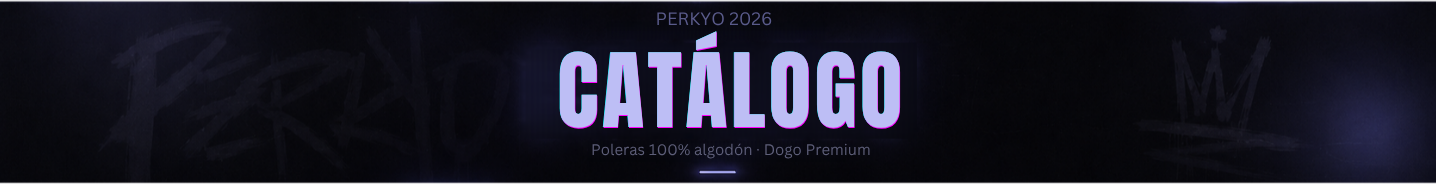
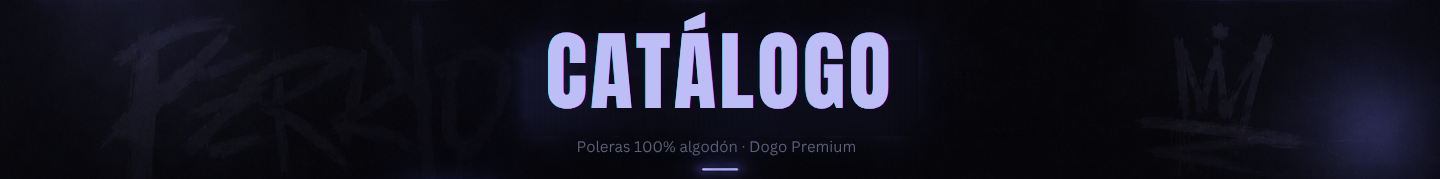
final?

diff --git a/src/Components/Catalogo.jsx b/src/Components/Catalogo.jsx
@@ -1,70 +1,66 @@
+import { useState } from "react";
+
 function Catalogo({ categoriaSeleccionada }) {
 
-    const categorias = [
-    "Anime",
-    "Peliculas",
-    "Series",
-    "Videojuegos",
-    "Otros"
-    ];
+    const [selectedProduct, setSelectedProduct] = useState(null);
+    const [currentImage, setCurrentImage] = useState(0);
 
     const items = [
-  {
-    name: "ACE",
-    categoria: "Anime",
-    imgBack: "./img/ace-back.png",
-    imgFront: "./img/ace-front.png"
-  },
-  {
-    name: "BRIAN O'CONNER",
-    categoria: "Peliculas",
-    imgBack: "./img/chopper-back.png",
-    imgFront: "./img/chopper-front.png"
-  },
-  {
-    name: "LAW",
-    categoria: "Anime",
-    imgBack: "./img/death-back.png",
-    imgFront: "./img/death-front.png"
-  },
-  {
-    name: "ZORO",
-    categoria: "Anime",
-    imgBack: "./img/dk-back.png",
-    imgFront: "./img/dk-front.png"
-  },
-  {
-    name: "GUTS",
-    categoria: "Anime",
-    imgBack: "./img/guts-back.png",
-    imgFront: "./img/guts-front.png"
-  },
-  {
-    name: "KURAPIKA",
-    categoria: "Anime",
-    imgBack: "./img/kura-back.png",
-    imgFront: "./img/kura-front.png"
-  },
-  {
-    name: "GEAR 5",
-    categoria: "Anime",
-    imgBack: "./img/luffy-back.png",
-    imgFront: "./img/luffy-front.png"
-  },
-  {
-    name: "EREN",
-    categoria: "Anime",
-    imgBack: "./img/shingeki-back.png",
-    imgFront: "./img/shingeki-front.png"
-  },
-  {
-    name: "EREN TITAN",
-    categoria: "Anime",
-    imgBack: "./img/what-back.png",
-    imgFront: "./img/what-front.png"
-  }
-  
-];
+        {
+            name: "ACE",
+            categoria: "Anime",
+            imgBack: "./img/ace-back.png",
+            imgFront: "./img/ace-front.png"
+        },
+        {
+            name: "BRIAN O'CONNER",
+            categoria: "Peliculas",
+            imgBack: "./img/chopper-back.png",
+            imgFront: "./img/chopper-front.png"
+        },
+        {
+            name: "LAW",
+            categoria: "Anime",
+            imgBack: "./img/death-back.png",
+            imgFront: "./img/death-front.png"
+        },
+        {
+            name: "ZORO",
+            categoria: "Anime",
+            imgBack: "./img/dk-back.png",
+            imgFront: "./img/dk-front.png"
+        },
+        {
+            name: "GUTS",
+            categoria: "Anime",
+            imgBack: "./img/guts-back.png",
+            imgFront: "./img/guts-front.png"
+        },
+        {
+            name: "KURAPIKA",
+            categoria: "Anime",
+            imgBack: "./img/kura-back.png",
+            imgFront: "./img/kura-front.png"
+        },
+        {
+            name: "GEAR 5",
+            categoria: "Anime",
+            imgBack: "./img/luffy-back.png",
+            imgFront: "./img/luffy-front.png"
+        },
+        {
+            name: "EREN",
+            categoria: "Anime",
+            imgBack: "./img/shingeki-back.png",
+            imgFront: "./img/shingeki-front.png"
+        },
+        {
+            name: "EREN TITAN",
+            categoria: "Anime",
+            imgBack: "./img/what-back.png",
+            imgFront: "./img/what-front.png"
+        }
+    ];
 
     const itemsFiltrados =
         categoriaSeleccionada === "Todos"
@@ -73,17 +69,34 @@ function Catalogo({ categoriaSeleccionada }) {
                 (item) => item.categoria === categoriaSeleccionada
             );
 
+    const openProduct = (product) => {
+        setSelectedProduct(product);
+        setCurrentImage(0);
+    };
+
+    const closeProduct = () => {
+        setSelectedProduct(null);
+    };
+
     return (
         <main className="catalogo">
+
             <section className="Cards">
+
                 {itemsFiltrados.map((item) => (
-                    <article className="Card" key={item.name}>
+                    <article
+                        className="Card"
+                        key={item.name}
+                        onClick={() => openProduct(item)}
+                    >
                         <div className="CardImage">
+
                             <img
                                 className="CardBack"
                                 src={item.imgBack}
                                 alt={item.name}
                             />
+
                             {item.imgFront && (
                                 <img
                                     className="CardFront"
@@ -91,11 +104,79 @@ function Catalogo({ categoriaSeleccionada }) {
                                     alt=""
                                 />
                             )}
+
                         </div>
+
                         <span>{item.name}</span>
+
                     </article>
                 ))}
+
             </section>
+
+
+            {selectedProduct && (
+                <div
+                    className="lightbox"
+                    onClick={closeProduct}
+                >
+
+                    <div
+                        className="lightbox-content"
+                        onClick={(e) => e.stopPropagation()}
+                    >
+
+                        <button
+                            className="lightbox-close"
+                            onClick={closeProduct}
+                        >
+                            ×
+                        </button>
+
+
+                        <button
+                            className="carousel-arrow left"
+                            onClick={() =>
+                                setCurrentImage((prev) =>
+                                    prev === 0 ? 1 : 0
+                                )
+                            }
+                        >
+                            ‹
+                        </button>
+
+
+                        <img
+                            className="lightbox-image"
+                            src={
+                                currentImage === 0
+                                    ? selectedProduct.imgBack
+                                    : selectedProduct.imgFront
+                            }
+                            alt={selectedProduct.name}
+                        />
+
+
+                        <button
+                            className="carousel-arrow right"
+                            onClick={() =>
+                                setCurrentImage((prev) =>
+                                    prev === 0 ? 1 : 0
+                                )
+                            }
+                        >
+                            ›
+                        </button>
+
+                        <div className="lightbox-counter">
+                            {currentImage + 1} / 2
+                        </div>
+
+                    </div>
+
+                </div>
+            )}
+
         </main>
     );
 }

diff --git a/src/Style/login.css b/src/Style/login.css
@@ -74,6 +74,11 @@ nav {
     gap: 45px;
 }
 
+nav img {
+    height: 80px;
+    width: auto;
+}
+
 nav a,
 .profile a {
     color: white;
@@ -416,4 +421,108 @@ body::after {
         transform: translate(-100px, 250px) scale(0.95);
         opacity: 0.7;
     }
+}
+
+
+/* NEXT SECTION: LIGHTBOX FOR ZOOMING */
+
+.lightbox {
+    position: fixed;
+    inset: 0;
+    z-index: 9999;
+
+    display: flex;
+    justify-content: center;
+    align-items: center;
+
+    background: rgba(0, 0, 0, 0.85);
+    backdrop-filter: blur(8px);
+}
+
+.lightbox-content {
+    position: relative;
+
+    display: flex;
+    align-items: center;
+    justify-content: center;
+
+    width: min(90vw, 1000px);
+    height: min(90vh, 800px);
+}
+
+.lightbox-image {
+    max-width: 75%;
+    max-height: 80vh;
+
+    object-fit: contain;
+
+    border-radius: 15px;
+
+    filter: drop-shadow(0 0 25px rgba(130, 100, 255, 0.7));
+}
+
+.lightbox-close {
+    position: absolute;
+    top: -10px;
+    right: 10px;
+
+    border: none;
+    background: none;
+
+    color: white;
+    font-size: 45px;
+
+    cursor: pointer;
+
+    z-index: 2;
+}
+
+.carousel-arrow {
+    position: absolute;
+
+    width: 55px;
+    height: 55px;
+
+    border: 1px solid rgba(255, 255, 255, 0.3);
+    border-radius: 50%;
+
+    background: rgba(0, 0, 0, 0.6);
+
+    color: white;
+    font-size: 40px;
+    line-height: 45px;
+
+    cursor: pointer;
+
+    transition: 0.2s;
+}
+
+.carousel-arrow:hover {
+    background: rgba(140, 110, 255, 0.8);
+    transform: scale(1.1);
+}
+
+.carousel-arrow.left {
+    left: 20px;
+}
+
+.carousel-arrow.right {
+    right: 20px;
+}
+
+.lightbox-name {
+    position: absolute;
+    bottom: 35px;
+
+    color: white;
+    font-size: 24px;
+    font-family: serif;
+}
+
+.lightbox-counter {
+    position: absolute;
+    bottom: -15px;
+
+    color: rgba(255, 255, 255, 0.6);
+    font-size: 14px;
 }

diff --git a/src/Components/Navbar.jsx b/src/Components/Navbar.jsx
@@ -4,18 +4,15 @@ function Navbar() {
     return (
         <header className="navbar">
             <section className="logo">
-                <img src="/img/logo-no-bg.png" alt="Logo navegación" />
+                <img src="./img/logo-no-bg-white.png" alt="Logo navegación" />
             </section>
             <nav>
-                <a href="#">Inicio</a>
-                <div className="divisor"></div>
-                <a href="#">Catalogo</a>
+                <img src="./img/perkyo.png" alt="" />
             </nav>
             <div className="profile">
                 <span>
-                    <a href="https://instagram.com/yourusername" target="_blank" rel="noopener noreferrer">
+                    <a href="https://www.instagram.com/perkyo.store/" target="_blank" rel="noopener noreferrer">
                         <FaInstagram />
-                        
                         PERKYŌ
                     </a>
                 </span>
